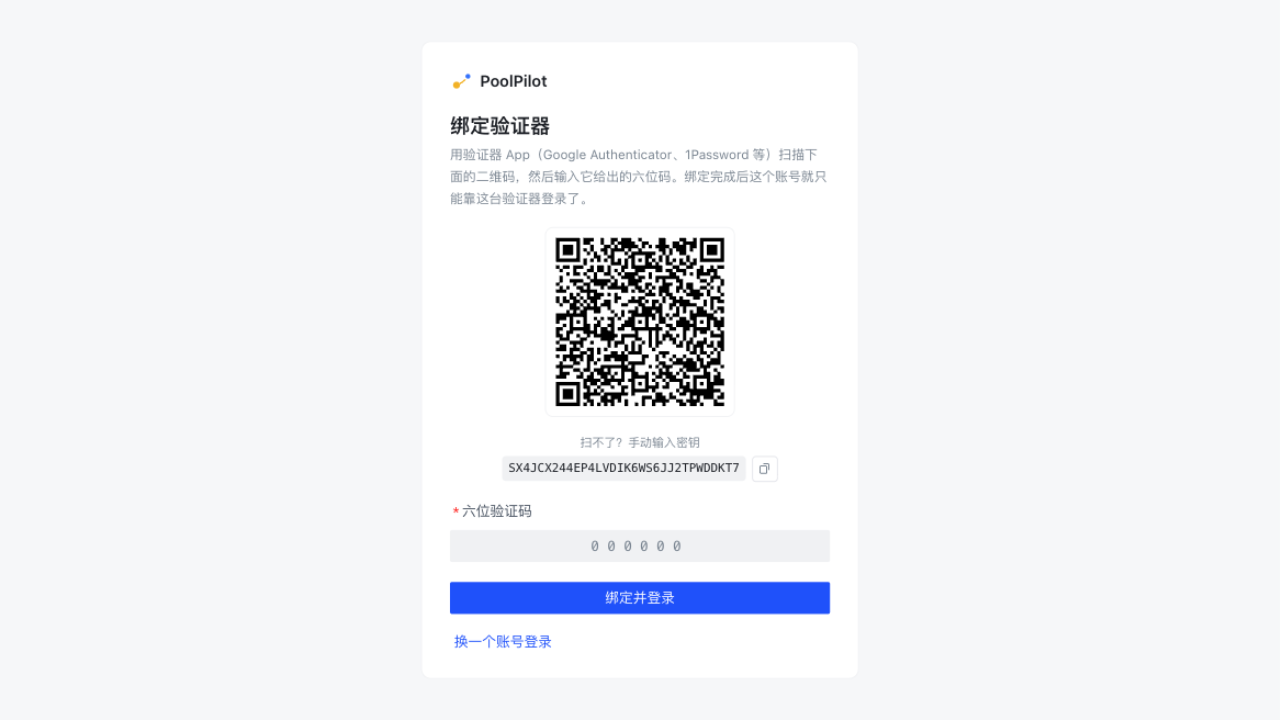
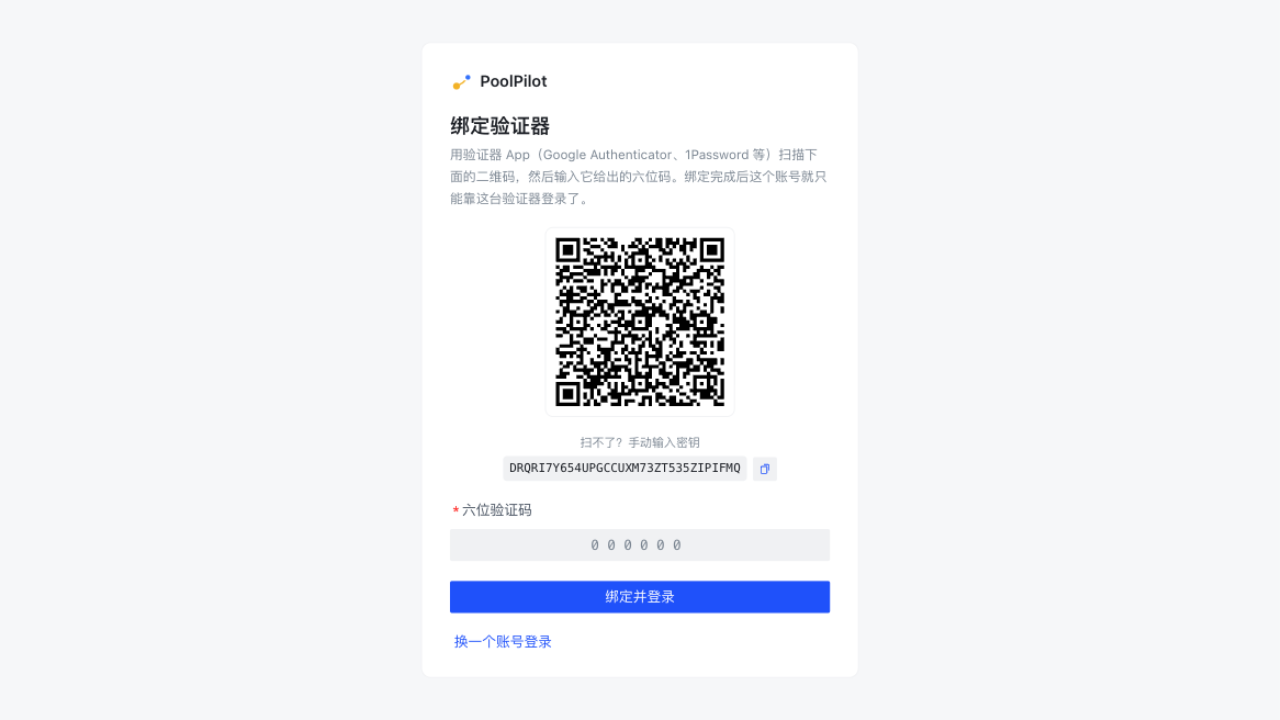
MFA 绑定页：复制按钮去掉边框，改成无边框图标
它只是密钥旁边的一个小动作，画上边框与描边会把它抬成"页面上的一个操作"——
与顶栏的主题开关、账号按钮同一档：无边框，悬停才浮出一层浅底。

改用 Arco 的文本按钮（`type="text"`）而不是自己写一个去边框的 `<button>`：
悬停底色、禁用态、焦点环这些状态它已经处理好了，自己写等于把这些再实现一遍。
实测点击仍能复制（剪贴板里就是密钥、提示照旧），截图一并重拍。

diff --git a/web/src/views/MfaView.vue b/web/src/views/MfaView.vue
@@ -134,15 +134,20 @@ async function backToLogin(): Promise<void> {
           <span class="qr-fallback-label">扫不了？手动输入密钥</span>
           <div class="qr-secret-row">
             <code class="qr-secret">{{ challenge.secret }}</code>
-            <button
-              type="button"
+
+            <!-- 复制是个**次要动作**：不画边框，悬停时才浮出一层浅底。
+                 用 Arco 的文本按钮而不是自己写一个带边框的按钮——
+                 边框会把它抬成"页面上的一个操作"，而它只是密钥旁边的一个小动作 -->
+            <a-button
+              type="text"
+              size="mini"
               class="copy-button"
               title="复制密钥"
               aria-label="复制密钥"
               @click="copySecret"
             >
-              <IconCopy />
-            </button>
+              <template #icon><IconCopy /></template>
+            </a-button>
           </div>
         </div>
       </div>
@@ -228,25 +233,13 @@ async function backToLogin(): Promise<void> {
   margin-top: 2px;
 }
 
+/* 与顶栏的主题开关、账号按钮同一档：无边框，悬停给一层浅底 */
 .copy-button {
-  display: inline-flex;
-  align-items: center;
-  justify-content: center;
-  width: 26px;
-  height: 26px;
-  padding: 0;
-  font-size: 13px;
   color: var(--color-text-3);
-  background: transparent;
-  border: 1px solid var(--color-border-2);
-  border-radius: 4px;
-  cursor: pointer;
-  transition: color 0.15s, border-color 0.15s;
 }
 
 .copy-button:hover {
   color: rgb(var(--primary-6));
-  border-color: rgb(var(--primary-6));
 }
 
 .qr-secret {
